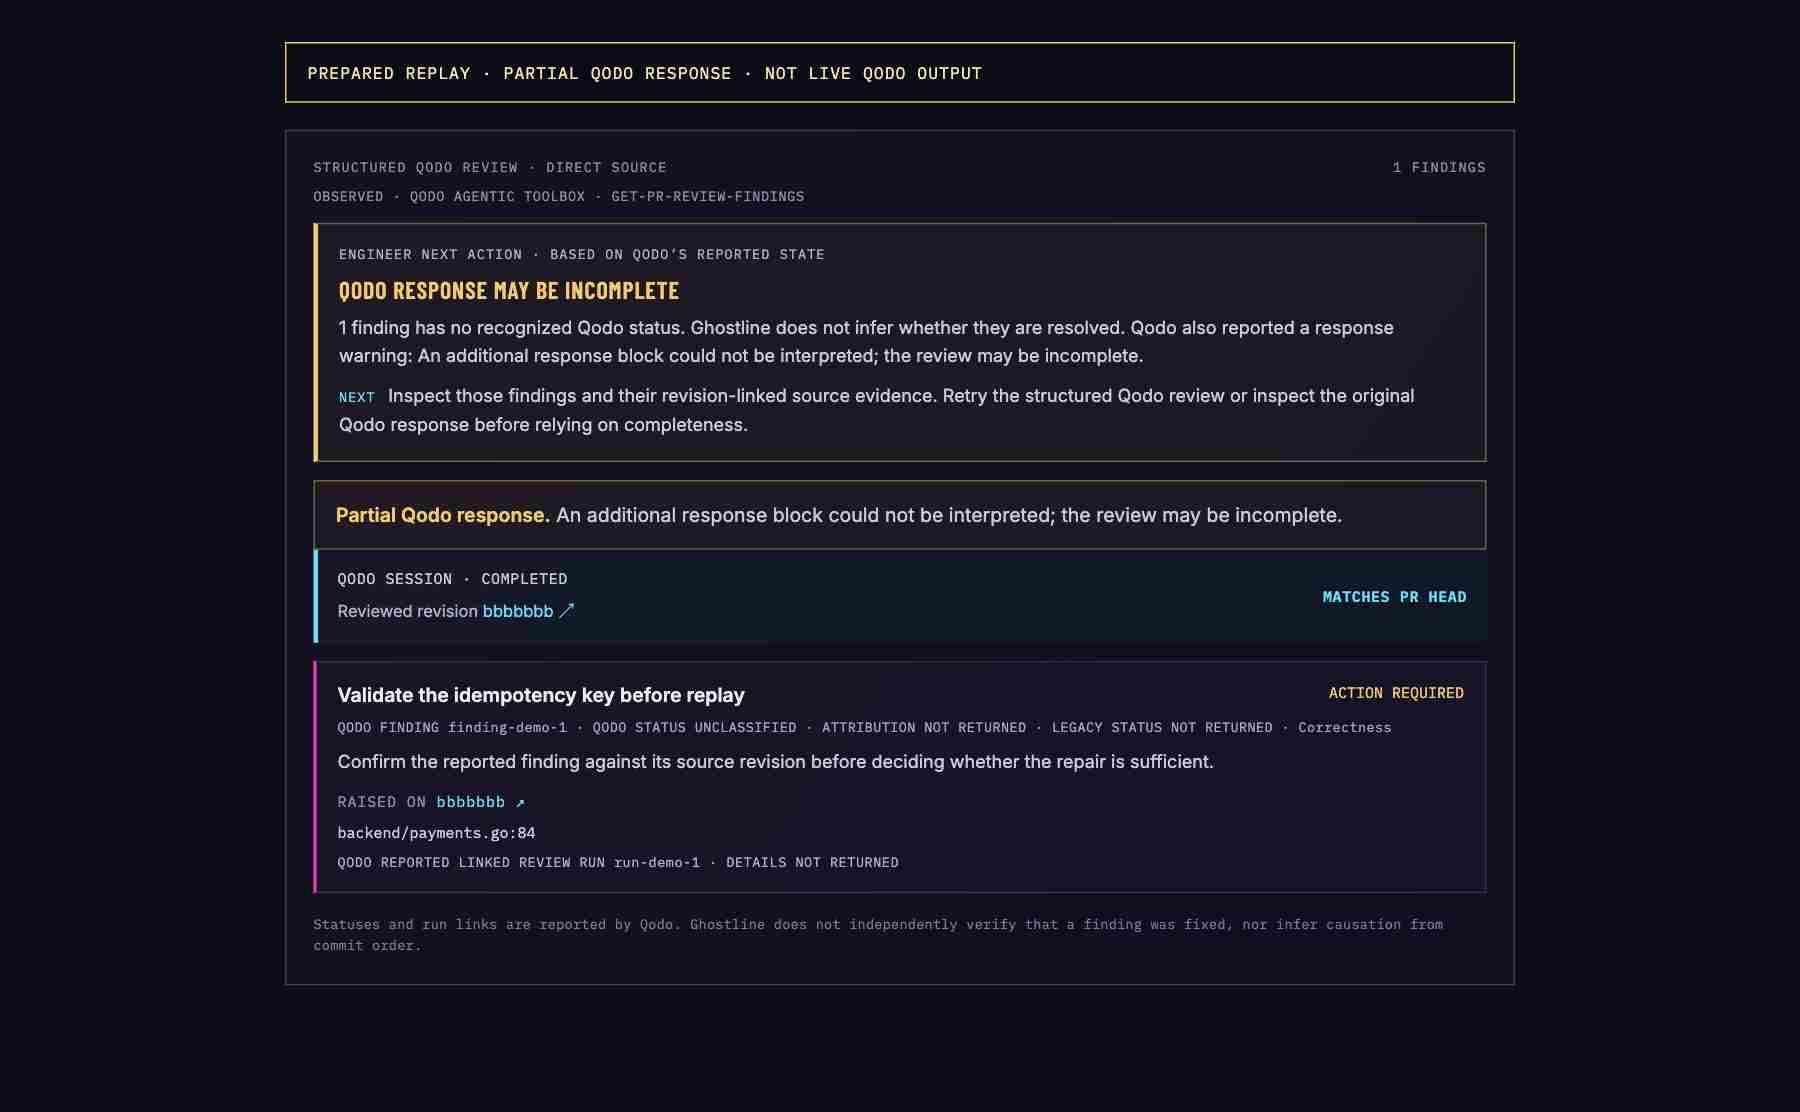
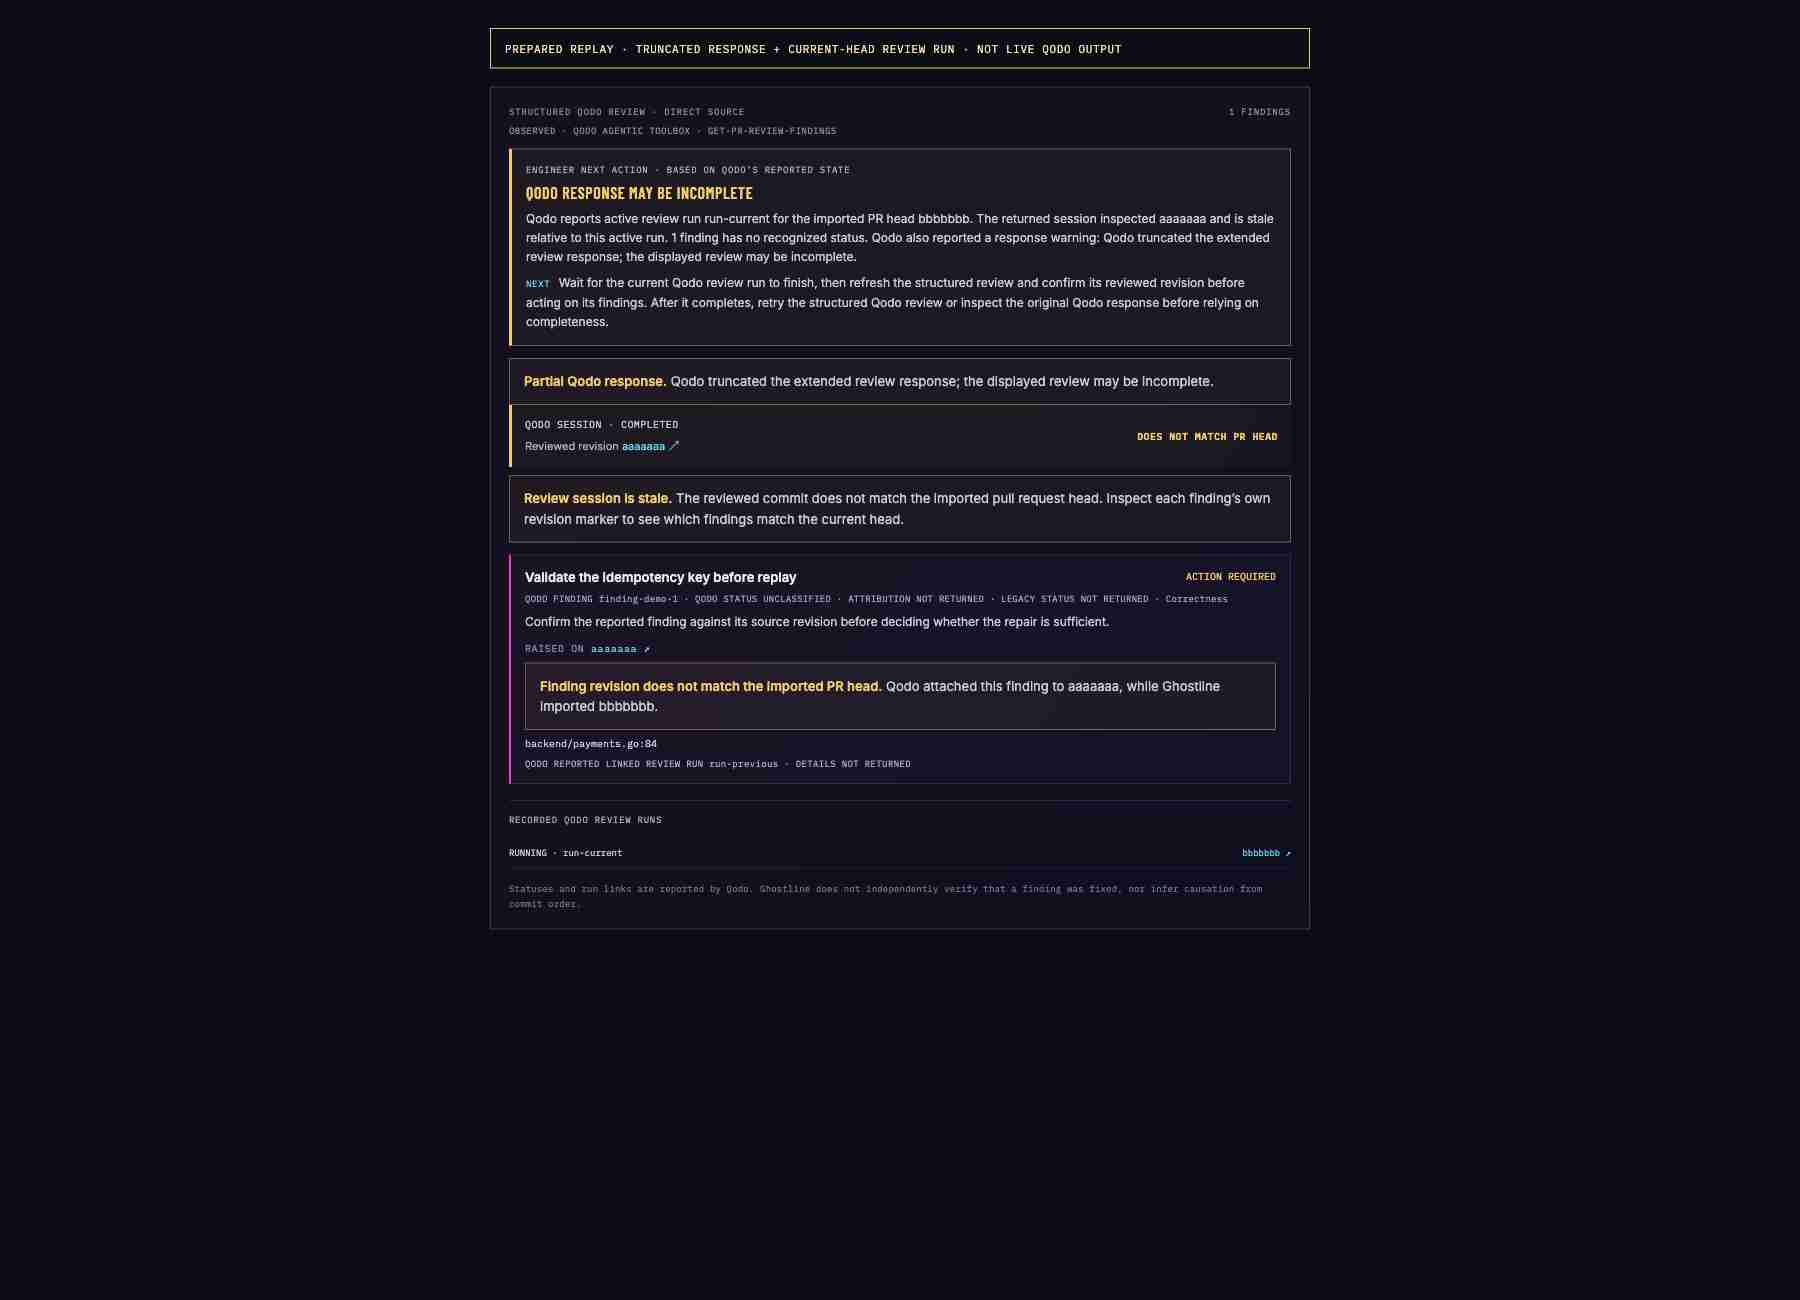
fix: preserve Qodo review completeness signals

diff --git a/frontend/src/domain/qodoReviewSession.ts b/frontend/src/domain/qodoReviewSession.ts
@@ -127,6 +127,14 @@ export function reviewSessionFreshness(review: QodoStructuredReview, headSha: st
   return reviewedSha.toLowerCase() === headSha.toLowerCase() ? 'current' : 'stale'
 }
 
+function runningReviewRunForHead(review: QodoStructuredReview, headSha: string): QodoStructuredReview['reviewRuns'][number] | undefined {
+  if (!fullSha.safeParse(headSha).success) return undefined
+  return review.reviewRuns.find((run) => {
+    const status = run.status.trim().toLowerCase()
+    return (status === 'started' || status === 'running') && run.commitSha?.toLowerCase() === headSha.toLowerCase()
+  })
+}
+
 export function isReviewSessionCurrent(review: QodoStructuredReview, headSha: string): boolean {
   return reviewSessionFreshness(review, headSha) === 'current'
 }
@@ -205,6 +213,21 @@ function baseReviewAttentionSummary(review: QodoStructuredReview, headSha: strin
     dismissedFindingCount,
     staleFindingCount,
     unknownFindingRevisionCount,
+  }
+
+  const activeHeadRun = runningReviewRunForHead(review, headSha)
+  if (activeHeadRun) {
+    const sessionFreshness = review.reviewSession ? reviewSessionFreshness(review, headSha) : 'unknown'
+    const sessionNote = sessionFreshness === 'stale'
+      ? ` The returned session inspected ${review.reviewSession!.commitSha!.slice(0, 7)} and is stale relative to this active run.`
+      : ' Findings shown below belong to the returned session and may not include this run’s results.'
+    return {
+      ...counts,
+      kind: 'in-progress',
+      title: 'Qodo review is still running',
+      detail: `Qodo reports active review run ${activeHeadRun.id} for the imported PR head ${headSha.slice(0, 7)}.${sessionNote}${freshnessFindingDetail(openFindingCount, unclassifiedFindingCount)}`,
+      nextAction: 'Wait for the current Qodo review run to finish, then refresh the structured review and confirm its reviewed revision before acting on its findings.',
+    }
   }
 
   if (!review.reviewSession) {
@@ -365,7 +388,7 @@ export function reviewAttentionSummary(review: QodoStructuredReview, headSha: st
   const detail = summary.kind === 'clear' && summary.findingCount === 0
     ? `No findings were present in the interpretable response. ${warning}`
     : `${summary.detail} ${warning}`
-  const nextAction = summary.kind === 'clear'
+  const nextAction = summary.kind === 'clear' && summary.findingCount === 0
     ? 'Retry the structured Qodo review or inspect the original Qodo response before relying on its completeness.'
     : summary.kind === 'in-progress'
       ? `${summary.nextAction} After it completes, retry the structured Qodo review or inspect the original Qodo response before relying on completeness.`

diff --git a/frontend/src/domain/qodoReviewSession.test.ts b/frontend/src/domain/qodoReviewSession.test.ts
@@ -361,6 +361,22 @@ describe('structured Qodo review evidence', () => {
     expect(summary.nextAction.toLowerCase()).toContain('wait for the current qodo review to finish')
   })
 
+  it('waits for a current-head review run when the returned session is stale', () => {
+    const review = QodoStructuredReviewSchema.parse({
+      availability: 'available', source: 'Qodo',
+      reviewSession: { status: 'completed', commitSha: shaA },
+      findings: [{ id: 'finding-1', title: 'Guard retries', status: 'open', gitSha: shaA }],
+      reviewRuns: [{ id: 'run-current', status: 'running', commitSha: shaB }],
+    })
+
+    const summary = reviewAttentionSummary(review, shaB)
+    expect(summary).toMatchObject({ kind: 'in-progress', title: 'Qodo review is still running' })
+    expect(summary.detail).toContain('active review run run-current')
+    expect(summary.detail).toContain(shaB.slice(0, 7))
+    expect(summary.nextAction.toLowerCase()).toContain('wait for the current qodo review run to finish')
+    expect(summary.nextAction).not.toContain('load a Qodo review for the current PR head')
+  })
+
   it('does not call a finding stale when its own revision matches a stale session head', () => {
     const review = QodoStructuredReviewSchema.parse({
       availability: 'available', source: 'Qodo',
@@ -460,6 +476,20 @@ describe('structured Qodo review evidence', () => {
     expect(summary.detail).toContain('Qodo reports 1 finding as open')
     expect(summary.detail).toContain('An additional response block could not be interpreted.')
     expect(summary.nextAction.toLowerCase()).toContain('retry the structured qodo review')
+  })
+
+  it('keeps closed-finding inspection guidance when a response is incomplete', () => {
+    const review = QodoStructuredReviewSchema.parse({
+      availability: 'available', source: 'Qodo',
+      reviewSession: { status: 'completed', commitSha: shaA },
+      findings: [{ id: 'finding-implemented', title: 'Guard duplicate requests', status: 'implemented', gitSha: shaA }],
+      reviewRuns: [], warnings: ['Qodo truncated the extended review response.'],
+    })
+
+    const summary = reviewAttentionSummary(review, shaA)
+    expect(summary).toMatchObject({ kind: 'incomplete', title: 'Qodo response may be incomplete', implementedFindingCount: 1 })
+    expect(summary.nextAction).toContain('Inspect the source findings and revision links before deciding whether to ship.')
+    expect(summary.nextAction).toContain('Retry the structured Qodo review')
   })
 
   it('does not present an empty partial response as a clear review', () => {

diff --git a/frontend/qodo-warning-list-evidence.html b/frontend/qodo-warning-list-evidence.html
@@ -3,7 +3,7 @@
   <head>
     <meta charset="UTF-8" />
     <meta name="viewport" content="width=device-width, initial-scale=1.0" />
-    <title>Ghostline · Qodo partial response guidance</title>
+    <title>Ghostline · Qodo incomplete and active-run guidance</title>
     <link rel="stylesheet" href="/src/presentation/style.css" />
     <style>
       body { min-height: 100vh; padding: 28px; background: #090b16; }
@@ -12,7 +12,7 @@
     </style>
   </head>
   <body>
-    <p class="fixture-label">PREPARED REPLAY · PARTIAL QODO RESPONSE · NOT LIVE QODO OUTPUT</p>
+    <p class="fixture-label">PREPARED REPLAY · TRUNCATED RESPONSE + CURRENT-HEAD REVIEW RUN · NOT LIVE QODO OUTPUT</p>
     <div id="app"></div>
     <script type="module">
       import { createApp } from 'vue'
@@ -24,10 +24,10 @@
         review: {
           availability: 'available',
           source: 'Qodo Agentic Toolbox · get-pr-review-findings',
-          reviewSession: { status: 'completed', commitSha: 'b'.repeat(40) },
-          warnings: ['An additional response block could not be interpreted; the review may be incomplete.'],
-          findings: [{ id: 'finding-demo-1', title: 'Validate the idempotency key before replay', description: 'Confirm the reported finding against its source revision before deciding whether the repair is sufficient.', category: 'Correctness', actionLevel: 'action_required', gitSha: 'b'.repeat(40), reviewRunId: 'run-demo-1', filePath: 'backend/payments.go', startLine: 84 }],
-          reviewRuns: [],
+          reviewSession: { status: 'completed', commitSha: 'a'.repeat(40) },
+          warnings: ['Qodo truncated the extended review response; the displayed review may be incomplete.'],
+          findings: [{ id: 'finding-demo-1', title: 'Validate the idempotency key before replay', description: 'Confirm the reported finding against its source revision before deciding whether the repair is sufficient.', category: 'Correctness', actionLevel: 'action_required', gitSha: 'a'.repeat(40), reviewRunId: 'run-previous', filePath: 'backend/payments.go', startLine: 84 }],
+          reviewRuns: [{ id: 'run-current', status: 'running', commitSha: 'b'.repeat(40) }],
         },
       }).mount('#app')
     </script>

diff --git a/frontend/src/presentation/QodoRequestRace.dom.test.ts b/frontend/src/presentation/QodoRequestRace.dom.test.ts
@@ -120,4 +120,23 @@ describe('structured Qodo review request binding', () => {
     expect(host?.textContent).not.toContain('Stale structured finding')
     expect(host?.querySelector<HTMLInputElement>('#qodo-api-key')?.value).toBe('')
   })
+
+  it('shows actionable guidance when Qodo rejects an expired API key', async () => {
+    vi.stubGlobal('isSecureContext', true)
+    vi.mocked(importPullRequest).mockResolvedValue(makePR(7))
+    vi.mocked(fetchQodoReviewSession).mockRejectedValue(new Error('Qodo rejected this API key; it may be expired or revoked. Create a fresh personal Qodo key, then retry.'))
+    await mount()
+
+    await setValue('#pr-url', 'https://github.com/acme/app/pull/7')
+    host!.querySelector<HTMLButtonElement>('.input-row button')!.click()
+    await settle()
+    await setValue('#qodo-api-key', 'expired-key')
+    host!.querySelector<HTMLButtonElement>('#load-qodo-review')!.click()
+    await settle()
+
+    const alert = host!.querySelector<HTMLElement>('.qodo-connect [role="alert"]')
+    expect(alert?.textContent).toContain('may be expired or revoked')
+    expect(alert?.textContent).toContain('Create a fresh personal Qodo key')
+    expect(host?.querySelector<HTMLInputElement>('#qodo-api-key')?.value).toBe('')
+  })
 })

diff --git a/backend/qodo_mcp_test.go b/backend/qodo_mcp_test.go
@@ -335,6 +335,17 @@ func TestQodoReviewDataUnmarshalFiltersBlankWarnings(t *testing.T) {
 	}
 }
 
+func TestQodoReviewDataWarnsWhenQodoTruncatesExtendedResult(t *testing.T) {
+	var got qodoReviewData
+	err := json.Unmarshal([]byte(`{"findings":[],"review_runs":[],"qar_operation_result_truncated":true}`), &got)
+	if err != nil {
+		t.Fatal(err)
+	}
+	if len(got.Warnings) != 1 || !strings.Contains(got.Warnings[0], "truncated") || !strings.Contains(got.Warnings[0], "incomplete") {
+		t.Fatalf("warnings = %#v; want explicit truncated-review warning", got.Warnings)
+	}
+}
+
 func BenchmarkDeduplicateQodoFindingsRepeatedIDs(b *testing.B) {
 	const distinctFindings = 5000
 	values := make([]qodoManagedFinding, 0, distinctFindings*2)
@@ -1009,6 +1020,72 @@ func TestQodoReviewEndpointLogsFailureWithoutLeakingCredential(t *testing.T) {
 	}
 	if strings.Contains(logs.String(), secret) || strings.Contains(res.Body.String(), secret) {
 		t.Fatal("Qodo credential leaked into logs or response")
+	}
+}
+
+func TestQodoReviewEndpointExplainsUpstreamAuthenticationFailures(t *testing.T) {
+	const secret = "qodo-secret-value"
+	for _, tt := range []struct {
+		name       string
+		status     int
+		wantStatus int
+		wantText   string
+	}{
+		{"expired or revoked key", http.StatusUnauthorized, http.StatusUnauthorized, "may be expired or revoked"},
+		{"workspace access denied", http.StatusForbidden, http.StatusForbidden, "workspace permissions"},
+		{"rate limited", http.StatusTooManyRequests, http.StatusTooManyRequests, "Try again later"},
+	} {
+		t.Run(tt.name, func(t *testing.T) {
+			router := newRouterWithQodoAndLimiter(&githubClient{baseURL: "https://api.github.com", http: http.DefaultClient}, qodoSourceFunc(func(context.Context, string, string) (qodoReviewData, error) {
+				return qodoReviewData{}, qodoServiceError{status: tt.status}
+			}), newRateLimiter(defaultRateLimitRequests, defaultRateLimitWindow, time.Now), clientIdentity{})
+			req := httptest.NewRequest(http.MethodPost, "/api/qodo-review", strings.NewReader(`{"url":"https://github.com/acme/payments/pull/42"}`))
+			req.Header.Set("Content-Type", "application/json")
+			req.Header.Set("Origin", "https://ghostline.example")
+			req.Header.Set("X-Qodo-API-Key", secret)
+			res := httptest.NewRecorder()
+			router.ServeHTTP(res, req)
+
+			if res.Code != tt.wantStatus {
+				t.Fatalf("status = %d, body = %s; want %d", res.Code, res.Body.String(), tt.wantStatus)
+			}
+			if !strings.Contains(res.Body.String(), tt.wantText) {
+				t.Fatalf("body = %s; want guidance containing %q", res.Body.String(), tt.wantText)
+			}
+			if strings.Contains(res.Body.String(), secret) {
+				t.Fatal("response exposed the Qodo credential")
+			}
+		})
+	}
+}
+
+func TestQodoReviewClientPreservesAuthenticationStatusWithoutUpstreamBody(t *testing.T) {
+	const secret = "qodo-secret-value"
+	for _, status := range []int{http.StatusUnauthorized, http.StatusForbidden, http.StatusTooManyRequests} {
+		t.Run(http.StatusText(status), func(t *testing.T) {
+			client := &qodoReviewClient{
+				endpoint: "https://qodo.test/v1/tools/mcp/",
+				http: &http.Client{Transport: qodoRoundTripperFunc(func(r *http.Request) (*http.Response, error) {
+					if r.Header.Get("Authorization") != "Bearer "+secret {
+						t.Errorf("authorization header was not forwarded to the fixed Qodo endpoint")
+					}
+					return &http.Response{
+						StatusCode: status,
+						Body:       io.NopCloser(strings.NewReader("upstream detail contains private data")),
+						Header:     make(http.Header),
+						Request:    r,
+					}, nil
+				})},
+			}
+			_, err := client.fetch(context.Background(), secret, "https://github.com/acme/payments/pull/42")
+			var serviceErr qodoServiceError
+			if !errors.As(err, &serviceErr) || serviceErr.StatusCode() != status {
+				t.Fatalf("error = %v; want an upstream status error with code %d", err, status)
+			}
+			if strings.Contains(err.Error(), secret) || strings.Contains(err.Error(), "upstream detail") {
+				t.Fatalf("error exposed a credential or upstream response body: %v", err)
+			}
+		})
 	}
 }
 

diff --git a/backend/qodo_mcp.go b/backend/qodo_mcp.go
@@ -20,16 +20,29 @@ import (
 )
 
 const (
-	qodoMCPURL             = "https://sdk.qodo.ai/v1/tools/mcp/"
-	qodoToolName           = "get-pr-review-findings"
-	qodoMCPProtocolVersion = "2025-03-26"
-	maxQodoAPIKeyLength    = 2048
-	maxQodoRequestBytes    = 8 << 10
-	maxQodoResponseBytes   = 2 << 20
+	qodoMCPURL                   = "https://sdk.qodo.ai/v1/tools/mcp/"
+	qodoToolName                 = "get-pr-review-findings"
+	qodoMCPProtocolVersion       = "2025-03-26"
+	maxQodoAPIKeyLength          = 2048
+	maxQodoRequestBytes          = 8 << 10
+	maxQodoResponseBytes         = 2 << 20
+	qodoTruncatedResponseWarning = "Qodo truncated the extended review response; the displayed review may be incomplete."
 )
 
 type qodoReviewSource interface {
 	fetch(context.Context, string, string) (qodoReviewData, error)
+}
+
+type qodoServiceError struct {
+	status int
+}
+
+func (err qodoServiceError) Error() string {
+	return fmt.Sprintf("Qodo review service returned HTTP %d", err.status)
+}
+
+func (err qodoServiceError) StatusCode() int {
+	return err.status
 }
 
 type qodoReviewClient struct {
@@ -55,6 +68,7 @@ type qodoReviewDataWire struct {
 	ReviewRuns         []qodoManagedReviewRun `json:"review_runs"`
 	CamelReviewRuns    []qodoManagedReviewRun `json:"reviewRuns"`
 	Warnings           []string               `json:"warnings"`
+	ResultTruncated    bool                   `json:"qar_operation_result_truncated"`
 }
 
 func (data *qodoReviewData) UnmarshalJSON(payload []byte) error {
@@ -105,6 +119,9 @@ func (data *qodoReviewData) UnmarshalJSON(payload []byte) error {
 		if warning = strings.TrimSpace(warning); warning != "" {
 			normalized.Warnings = append(normalized.Warnings, warning)
 		}
+	}
+	if wire.ResultTruncated {
+		normalized.Warnings = append(normalized.Warnings, qodoTruncatedResponseWarning)
 	}
 	normalized.Findings = make([]qodoManagedFinding, 0, len(wire.Findings)+len(wire.CamelFindings))
 	for _, raw := range wire.Findings {
@@ -729,7 +746,7 @@ func (client *qodoReviewClient) post(ctx context.Context, apiKey, sessionID stri
 	defer response.Body.Close()
 	newSessionID := response.Header.Get("Mcp-Session-Id")
 	if response.StatusCode < 200 || response.StatusCode >= 300 {
-		return empty, newSessionID, fmt.Errorf("Qodo review service returned HTTP %d", response.StatusCode)
+		return empty, newSessionID, qodoServiceError{status: response.StatusCode}
 	}
 	if !expectResult {
 		return empty, newSessionID, nil

diff --git a/backend/main.go b/backend/main.go
@@ -247,6 +247,20 @@ func (a api) loadQodoReview(c *gin.Context) {
 		}
 		cause := strings.ReplaceAll(err.Error(), apiKey, "[redacted]")
 		logger.Error("Qodo structured review request failed", "pull_request", strings.TrimSpace(body.URL), "cause", cause)
+		var serviceErr qodoServiceError
+		if errors.As(err, &serviceErr) {
+			switch serviceErr.StatusCode() {
+			case http.StatusUnauthorized:
+				c.JSON(http.StatusUnauthorized, gin.H{"error": "Qodo rejected this API key; it may be expired or revoked. Create a fresh personal Qodo key, then retry."})
+				return
+			case http.StatusForbidden:
+				c.JSON(http.StatusForbidden, gin.H{"error": "Qodo denied this key's access to the workspace. Check the key's workspace permissions and the pull request's workspace."})
+				return
+			case http.StatusTooManyRequests:
+				c.JSON(http.StatusTooManyRequests, gin.H{"error": "Qodo is rate-limiting structured review requests. Try again later."})
+				return
+			}
+		}
 		c.JSON(http.StatusBadGateway, gin.H{"error": "Qodo structured review data could not be loaded. Check the key, workspace access, and pull request, then retry."})
 		return
 	}

diff --git a/docs/feature-evidence/qodo-partial-response-guidance.md b/docs/feature-evidence/qodo-partial-response-guidance.md
@@ -1,5 +1,5 @@
 # Qodo partial-response guidance evidence
 
-Captured from the running Ghostline Vue interface on 2026-11-14. The review shown is prepared replay data, not a live Qodo response. It demonstrates that a partial response is labeled incomplete, its warning remains visible, and the open finding stays actionable alongside a retry/source-inspection step.
+Captured from the running Ghostline Vue interface on 2026-11-14. The review shown is prepared replay data, not a live Qodo response. It demonstrates that a truncated response remains incomplete and that Ghostline advises waiting when the returned session is stale but Qodo reports an active review run on the imported PR head. Finding and session revision markers remain visible.
 
 Screenshot: [qodo-partial-response-guidance.jpg](qodo-partial-response-guidance.jpg)
